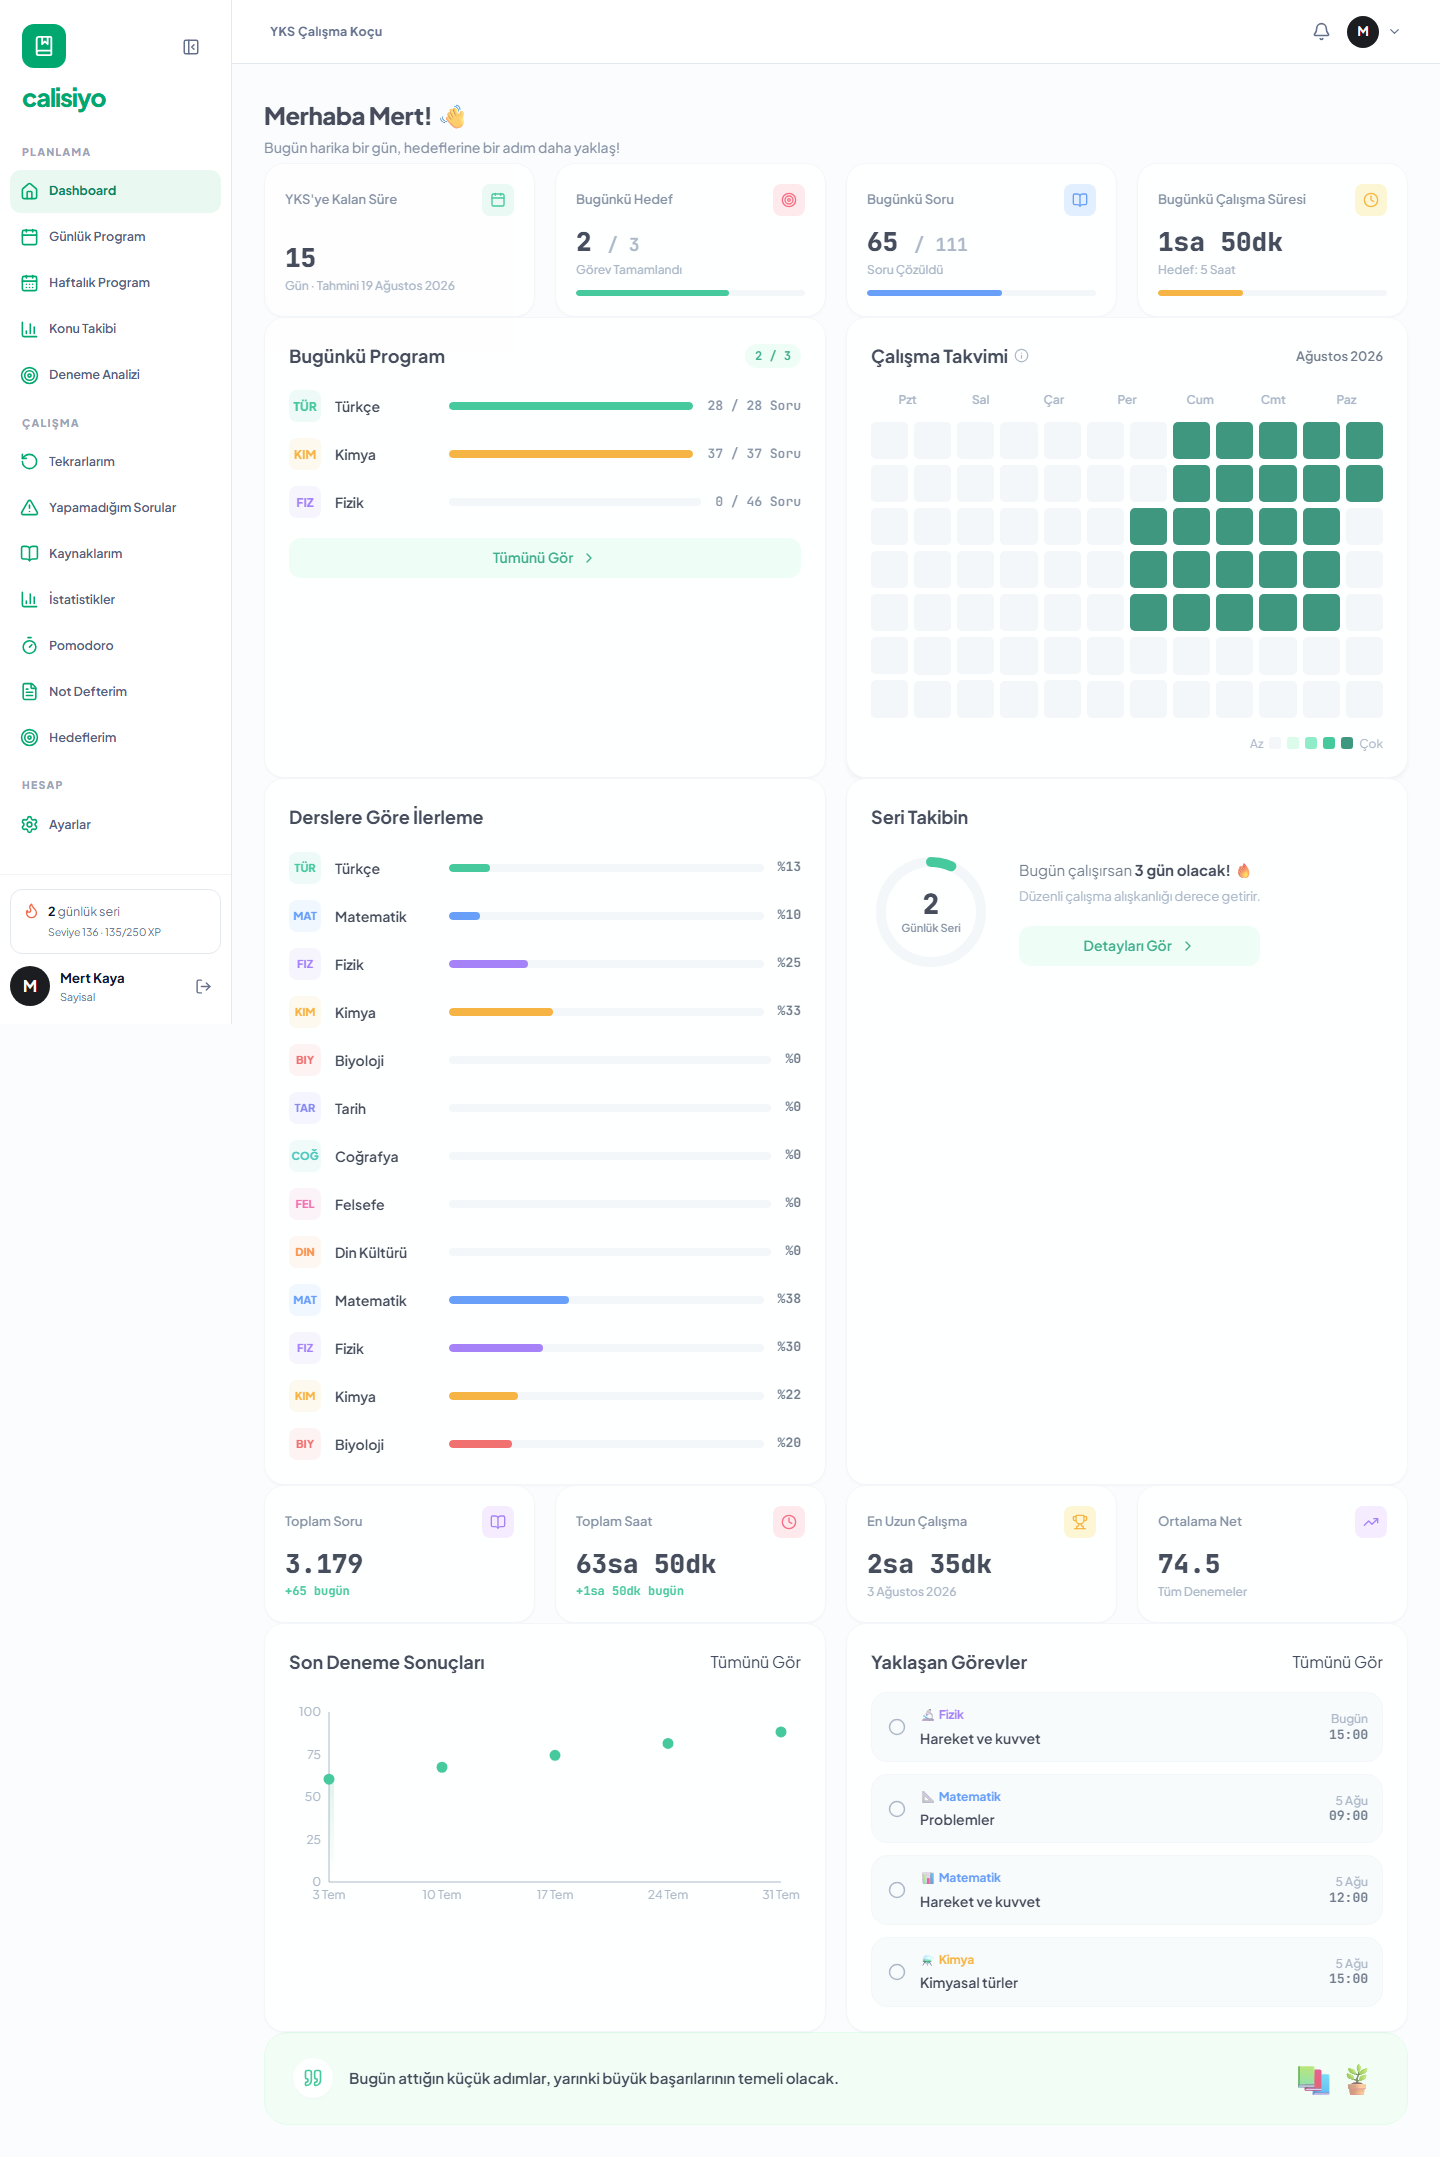
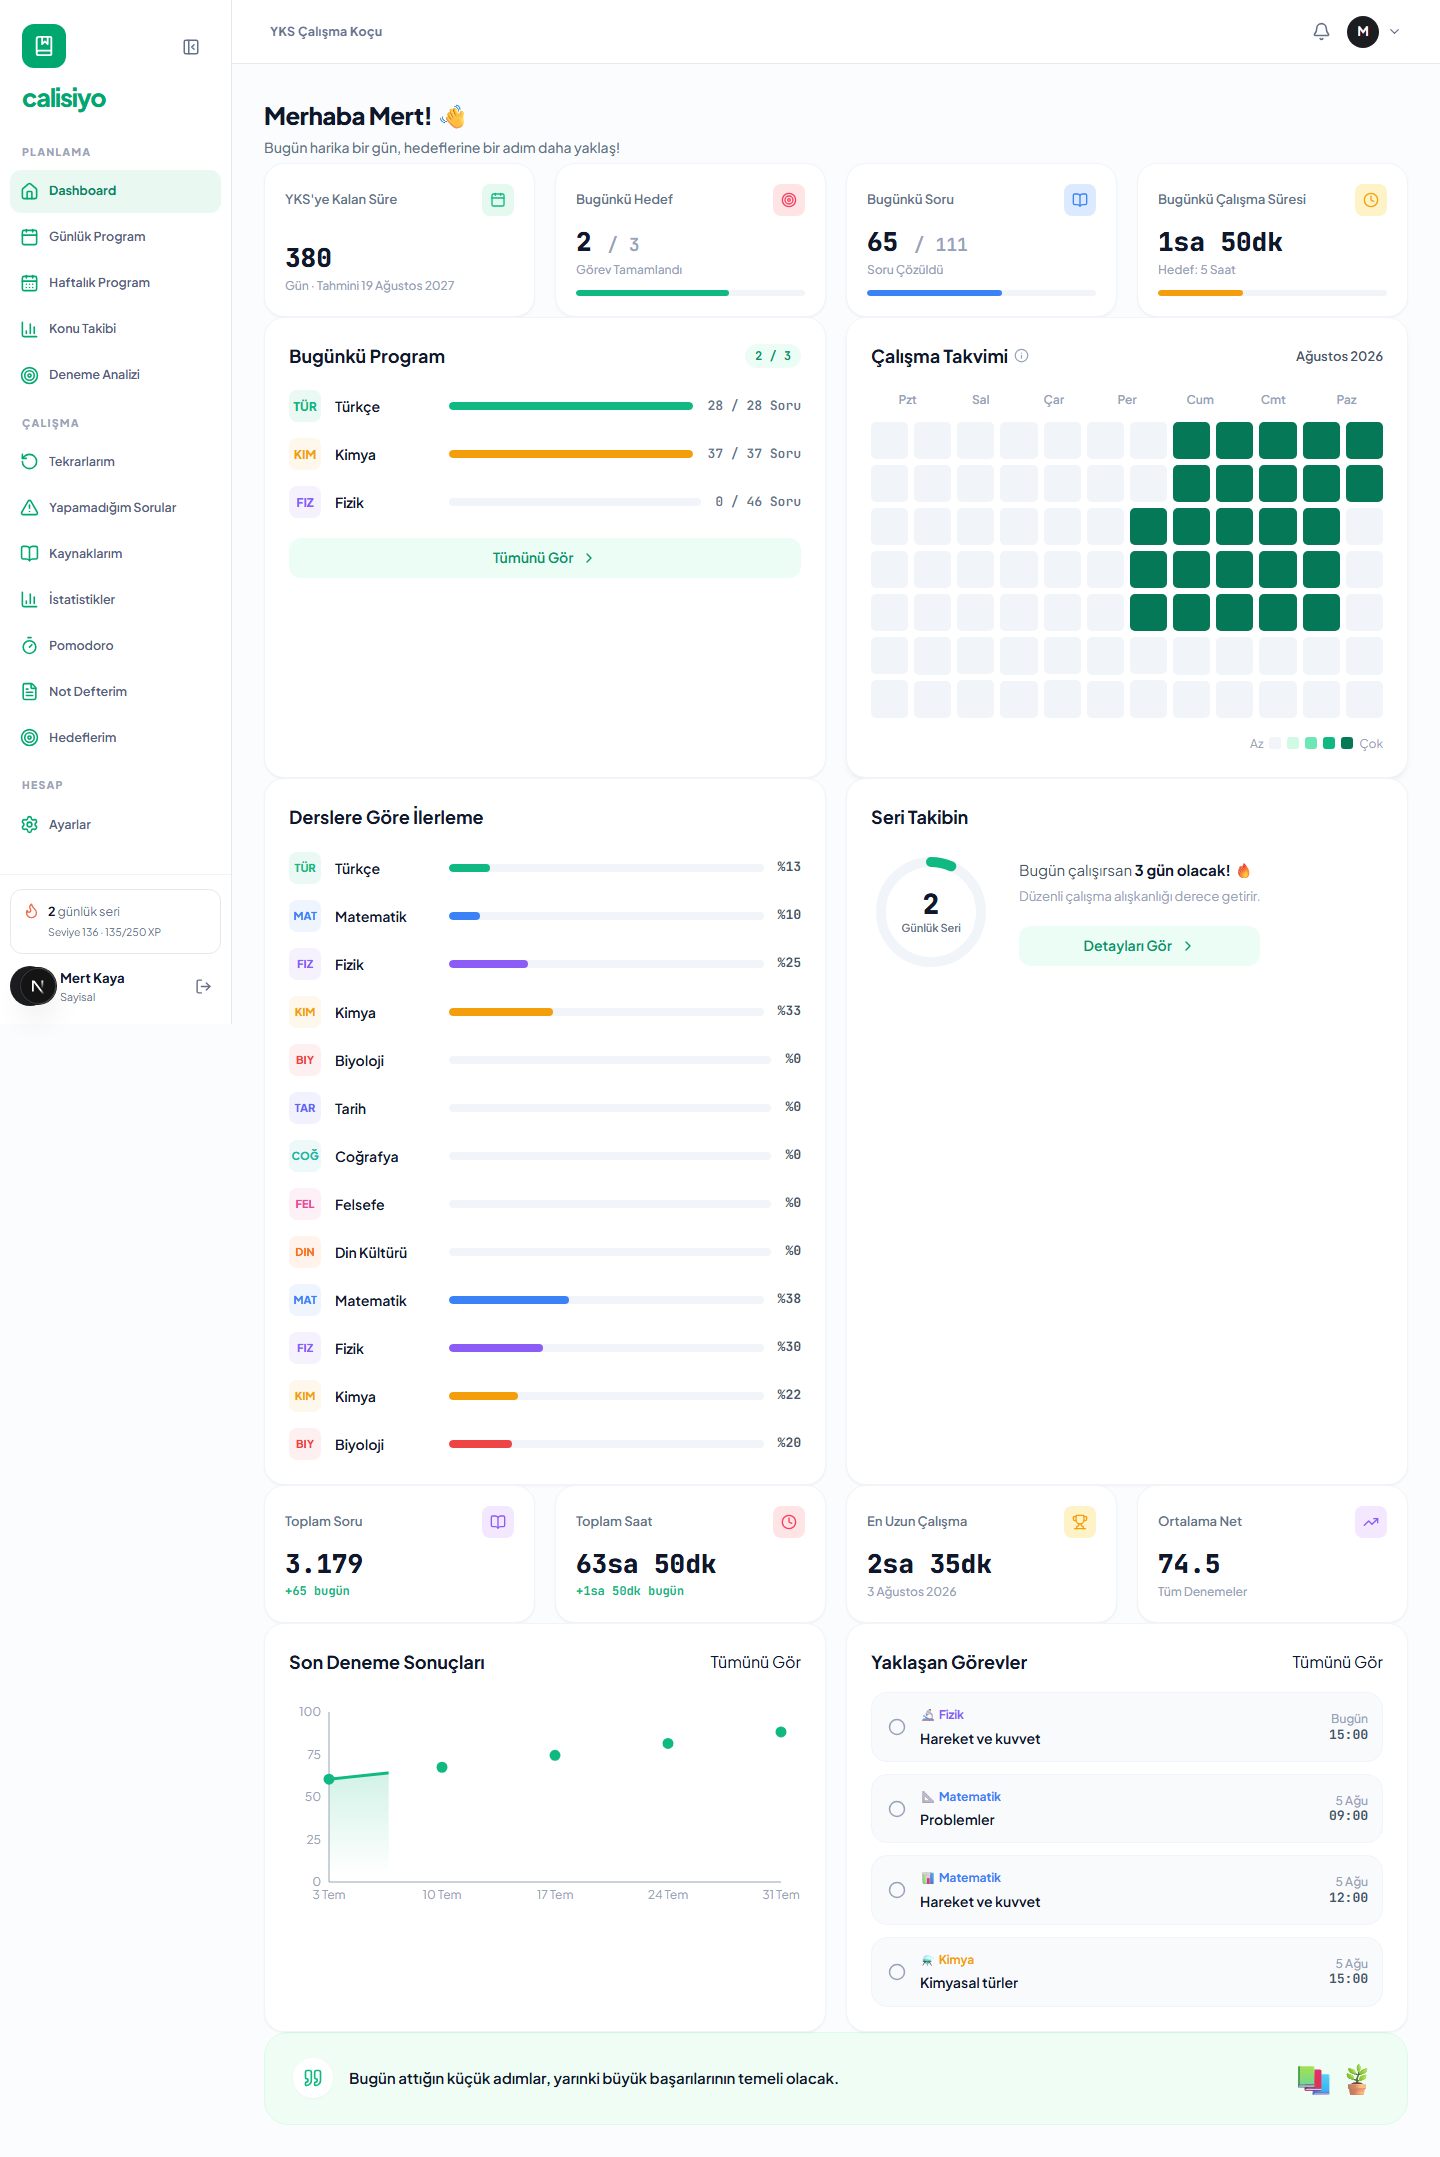
fix: update YKS countdown to 2027

diff --git a/tests/demo-account.spec.js b/tests/demo-account.spec.js
@@ -13,7 +13,7 @@ test('realistic demo account renders live dashboard and statistics', async ({ pa
   await page.getByRole('button', { name: 'Giriş Yap' }).click();
   await expect(page).toHaveURL(/\/dashboard$/);
   await expect(page.getByText('Mert Kaya').first()).toBeVisible();
-  await expect(page.getByText(/Tahmini 19 Ağustos 2026/)).toBeVisible();
+  await expect(page.getByText(/Tahmini 19 Ağustos 2027/)).toBeVisible();
   await page.screenshot({ path: path.join(qaDir, 'demo-dashboard-desktop.png'), fullPage: true });
 
   await page.goto(`${baseURL}/dashboard/istatistikler`);

diff --git a/lib/utils/date.js b/lib/utils/date.js
@@ -38,7 +38,7 @@ export function toLocalDateKey(value = new Date()) {
   return `${year}-${month}-${day}`;
 }
 
-export const YKS_ESTIMATED_DATE = '2026-08-19';
+export const YKS_ESTIMATED_DATE = '2027-08-19';
 
 // Geçici ürün tarihi: ÖSYM resmi tarihi açıklandığında NEXT_PUBLIC_YKS_DATE ile değiştirilebilir.
 export function daysUntilYKS(dateValue = process.env.NEXT_PUBLIC_YKS_DATE || YKS_ESTIMATED_DATE) {

diff --git a/design-qa.md b/design-qa.md
@@ -48,7 +48,7 @@ The source and implementation were rendered side by side in one comparison image
 - Pomodoro start/pause, mobile drawer, and bottom navigation passed.
 - Temporary QA users and their cascaded rows were removed after each run.
 - The `Mert Kaya` account passed with 84 tasks, 74 focus records, 5 exams, 38 tracked topics, real resources, difficult questions, repeats, and notes.
-- YKS countdown displays the explicit approximate date `19 Ağustos 2026` and labels it as estimated.
+- YKS countdown displays the explicit approximate date `19 Ağustos 2027` and labels it as estimated.
 
 ## Automated evidence
 
